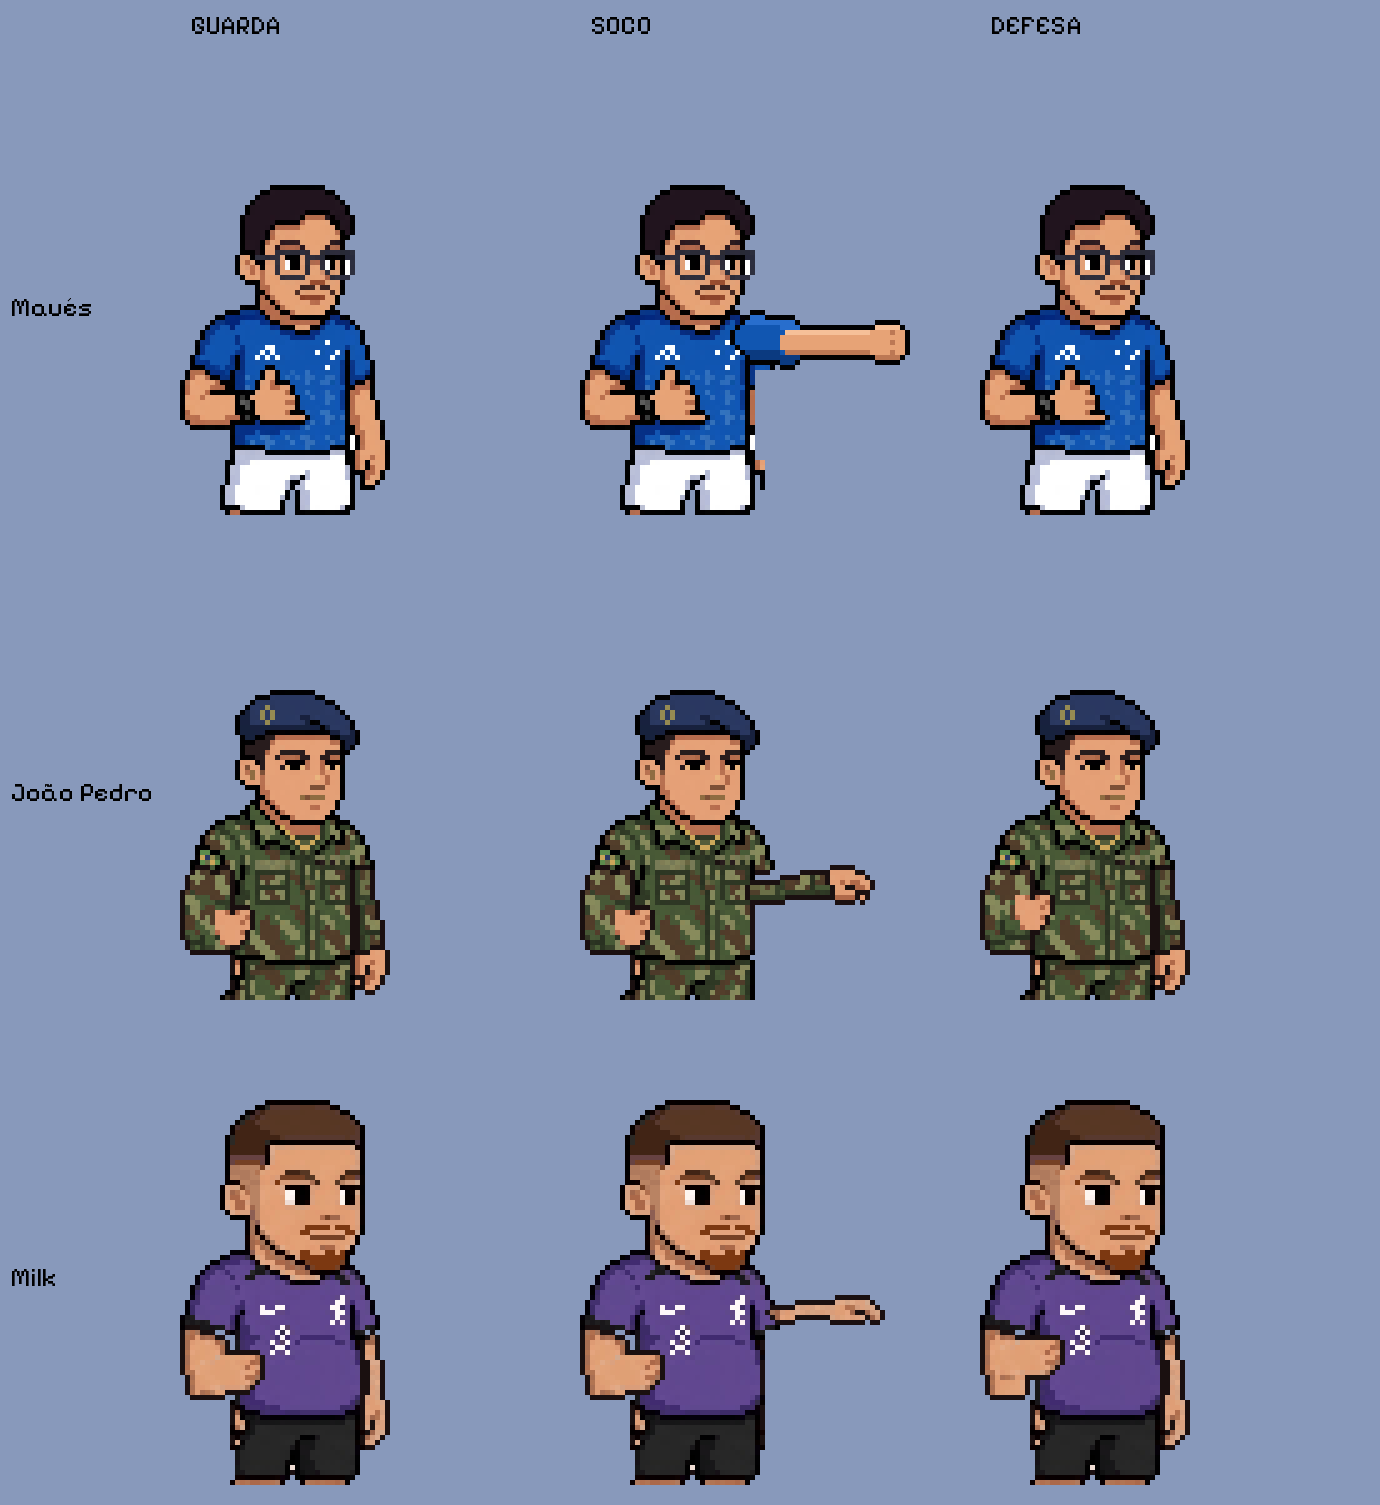
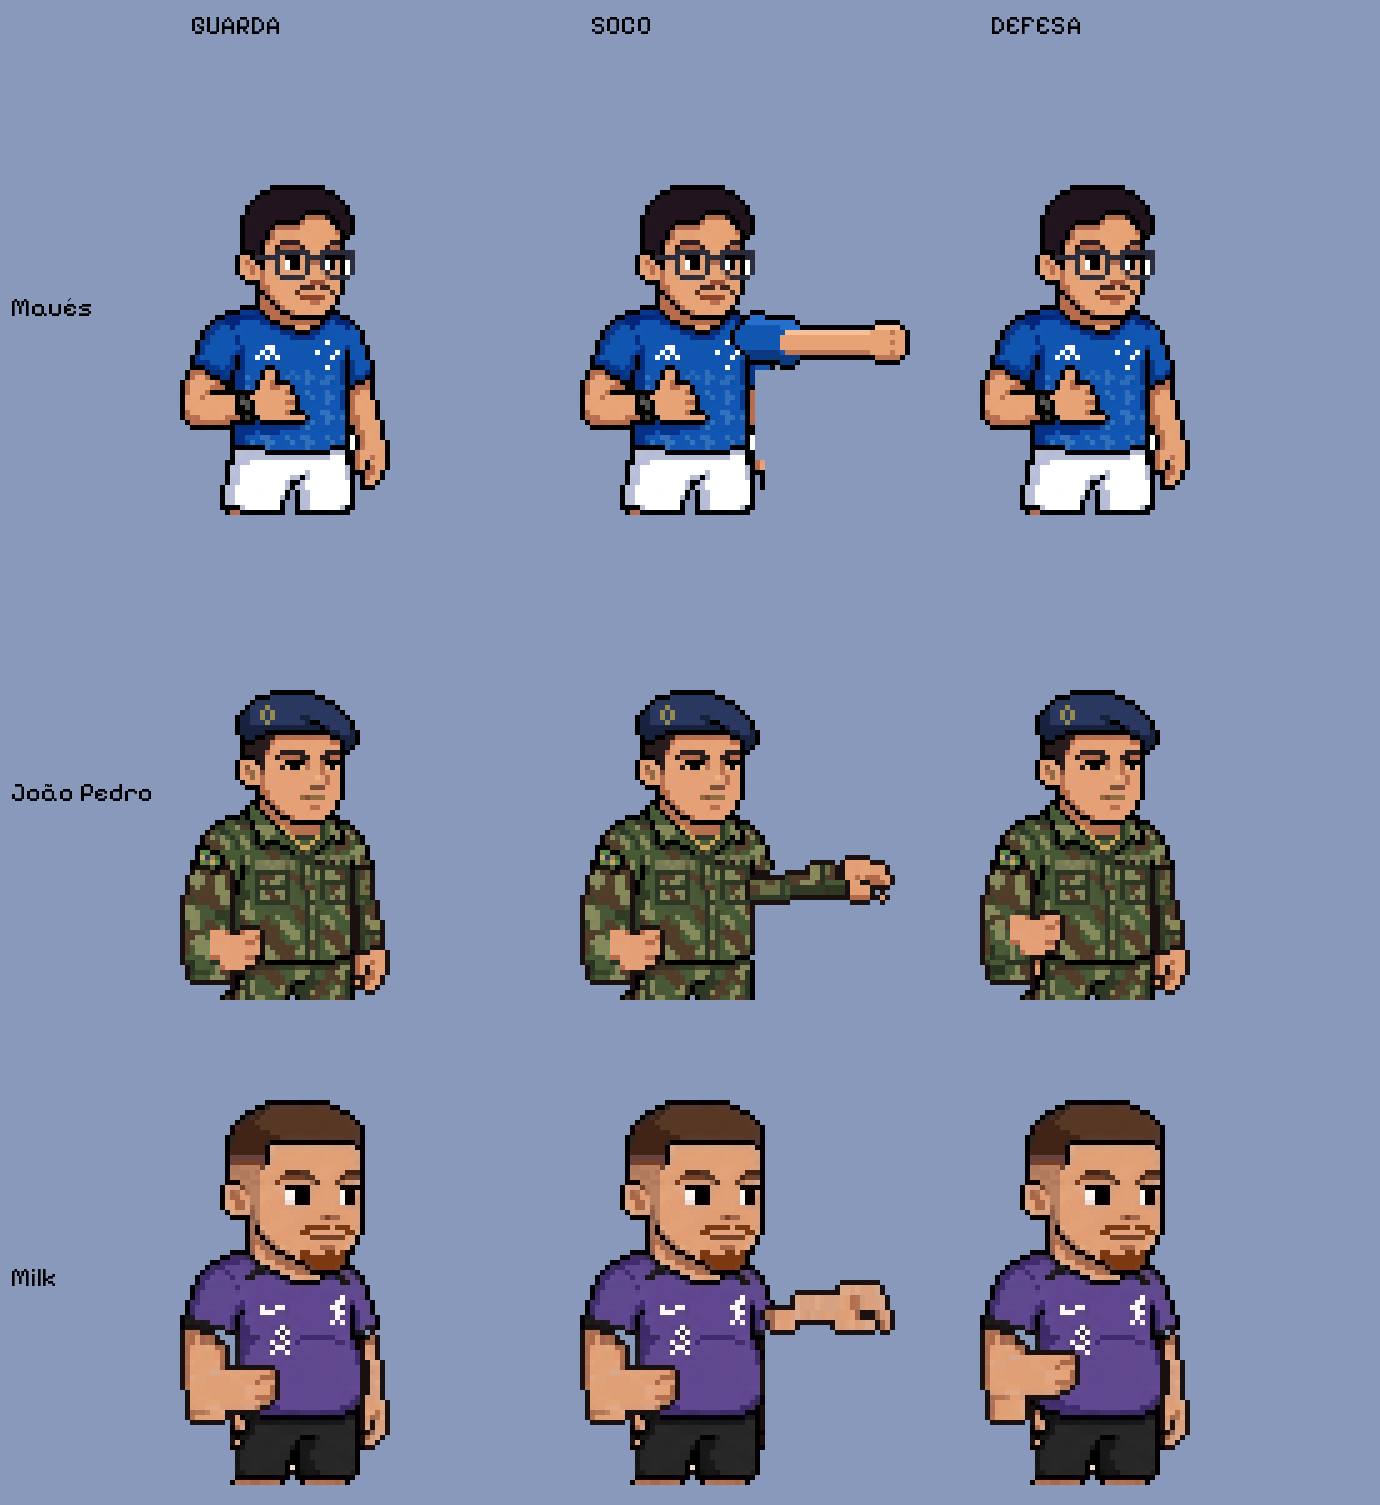
Bracos mais fortes Joao/Milk (BUILD 202610211530)

diff --git a/index.html b/index.html
@@ -12,6 +12,6 @@ canvas{image-rendering:pixelated;image-rendering:crisp-edges;background:#000}
 <div id="wrap"><canvas id="c" width="640" height="360"></canvas></div>
 <div id="touch"><div><span class="tb" data-k="ArrowLeft" data-a="left">◀</span><span class="tb" data-k="ArrowUp" data-a="up">▲</span><span class="tb" data-k="ArrowDown" data-a="down">▼</span><span class="tb" data-k="ArrowRight" data-a="right">▶</span></div>
 <div><span class="tb" data-k="KeyU" data-a="lp">SF</span><span class="tb" data-k="KeyI" data-a="hp">SF+</span><span class="tb" data-k="KeyJ" data-a="lk">CF</span><span class="tb" data-k="KeyK" data-a="hk">CF+</span><span class="tb" data-k="KeyL" data-a="sp">ESP</span><span class="tb" data-k="KeyO" data-a="su">SUP</span><span class="tb" data-k="Enter">OK</span></div></div>
-<script>window.BUILD="202610211520";</script><script src="js/characters.js?v=202610211520"></script><script src="js/stages.js?v=202610211520"></script><script src="js/audio.js?v=202610211520"></script><script src="js/input.js?v=202610211520"></script>
-<script src="js/fighter.js?v=202610211520"></script><script src="js/ai.js?v=202610211520"></script><script src="js/game.js?v=202610211520"></script>
+<script>window.BUILD="202610211530";</script><script src="js/characters.js?v=202610211530"></script><script src="js/stages.js?v=202610211530"></script><script src="js/audio.js?v=202610211530"></script><script src="js/input.js?v=202610211530"></script>
+<script src="js/fighter.js?v=202610211530"></script><script src="js/ai.js?v=202610211530"></script><script src="js/game.js?v=202610211530"></script>
 </body></html>

diff --git a/tools/bracos.py b/tools/bracos.py
@@ -5,8 +5,8 @@
 from PIL import Image
 OL=(26,16,16,255)
 CFG={ # sy=ombro, hb=fim da mão, cl/cr = colunas de corte (braço esq x<cl, dir x>=cr), el=linha do cotovelo
- 'milk':dict(ref='assets/milk_ref_normalizado.png',HIP=75,PADR=34,PADT=16,sy=46,hb=73,cl=10,cr=37,el=57,px=37,py=39,uy=48),  # manga curta fica no tronco; braço sai da barra da manga
- 'joao':dict(ref='assets/joao_ref_normalizado.png',HIP=60,PADR=34,PADT=14,sy=36,hb=63,cl=10,cr=35,el=50,px=34,py=35,uy=40),  # manga comprida gira junto
+ 'milk':dict(ref='assets/milk_ref_normalizado.png',HIP=75,PADR=34,PADT=16,sy=46,hb=73,cl=10,cr=37,el=57,px=37,py=37,uy=50,tk=9,bl=1.35),  # manga curta fica no tronco; braço sai da barra da manga
+ 'joao':dict(ref='assets/joao_ref_normalizado.png',HIP=60,PADR=34,PADT=14,sy=36,hb=63,cl=10,cr=35,el=50,px=34,py=34,uy=42,tk=8,bl=1.35),  # manga comprida gira junto
 }
 def dark(p): return p[3] and sum(p[:3])<=110
 def outline(im):
@@ -54,12 +54,19 @@ def build(n):
         return outline(Lr)
     e=el-sy
     # braço de trás (esquerda da imagem) dobrado: parte de cima original, antebraço girado p/ frente
-    Lup=L.crop((0,0,cl,e+2)); Lfa=L.crop((0,e,cl,hb-sy)).transpose(Image.ROTATE_90)
-    def back(dy=0): return arm([(Lup,0,sy),(Lfa,max(1,cl-6),el-Lfa.height//2-1+dy)])
-    hang=arm([(R,cr,sy)])                                   # braço da frente pendurado (como o Maués)
-    def fwd(dy=0): return arm([(R.transpose(Image.ROTATE_90),c['px'],c['py']+dy)])      # soco: braço inteiro na horizontal
-    upr=arm([(R.transpose(Image.ROTATE_180),cr,c['uy']-R.height)])                    # gancho: braço p/ cima
-    poses={'guard':[back(),hang],'block':[back(-3),hang],'punch':[back(),fwd()],'upper':[back(),upr]}
+    def bb(im):  # recorta à caixa do conteúdo
+        b=im.getbbox(); return im.crop(b) if b else im
+    def thick(im,w,h): return strip_ol(bb(im)).resize((w,h),Image.NEAREST)   # engrossa/alonga sem borrar o pixel
+    bl=c['bl']
+    Lup0=bb(strip_ol(L.crop((0,0,cl,e+2)))); Lup=thick(Lup0,Lup0.width,round(Lup0.height*bl))     # braço mais comprido
+    Lfa0=bb(strip_ol(L.crop((0,e,cl,hb-sy)))); Lfa=thick(Lfa0,Lfa0.width+1,round(Lfa0.height*1.45)).transpose(Image.ROTATE_90)  # antebraço cruza mais
+    ex=L.getbbox()[0]
+    def back(dy=0): ey=sy+Lup.height; return arm([(Lup,ex+1,sy),(Lfa,ex+2,ey-Lfa.height+2+dy)])
+    hang=arm([(R,cr,sy)])
+    R0=bb(strip_ol(R)); RT=thick(R0,c['tk'],round(R0.height*1.15))   # braço de soco grosso (manga+braço+punho)                                   # braço da frente pendurado (como o Maués)
+    def fwd(dy=0): return arm([(RT.transpose(Image.ROTATE_90),c['px'],c['py']+dy)])      # soco: braço inteiro na horizontal
+    upr=arm([(RT.transpose(Image.ROTATE_180),cr-2,c['uy']-RT.height)])                    # gancho: braço p/ cima
+    poses={'guard':[back(-3),hang],'block':[back(-6),hang],'punch':[back(-3),fwd()],'upper':[back(-3),upr]}
     for k,ls in poses.items():
         cv=canvas(); put(cv,body,0,0)
         for l in ls: cv.alpha_composite(l)

diff --git a/README.md b/README.md
@@ -119,7 +119,7 @@ Com mais de uma skin, ▲/▼ troca a skin na seleção (no Versus: W/S para o P
 - Frases de vitória: `quotes` (lista; o jogo sorteia uma) ou `quote`. Ficam editáveis na aba Frases da planilha.
 - Cartaz-resumo: `python3 tools/poster.py` gera `screens/resumo_jogo.png`.
 
-## Novidades (BUILD 202610211520)
+## Novidades (BUILD 202610211530)
 - **Monte Pascoal**: terceiro cenário (`assets/stage_monte_pascoal.png`); entra na escolha de cenário e no rodízio do Arcade.
 - **CONTROLES**: no menu principal (e na pausa, tecla **C**) dá para trocar as teclas do P1 e do P2: escolha a ação, ENTER e aperte a nova tecla. Se a tecla já tiver dono, as duas trocam de lugar (aparece um aviso). Use **PADRÃO** para voltar às teclas originais e **SALVAR E VOLTAR** para guardar (fica salvo no navegador, em localStorage). Os botões de toque continuam valendo para o P1.
 - **Braços no estilo do Maués** para João Pedro e Milk (`tools/bracos.py`, que já roda no fim de `gerar_joao.py`/`gerar_milk.py`): braço da frente pendurado ao lado do corpo, braço de trás dobrado na barriga, soco com o braço inteiro saindo da manga, cotovelos fechados com contorno.
